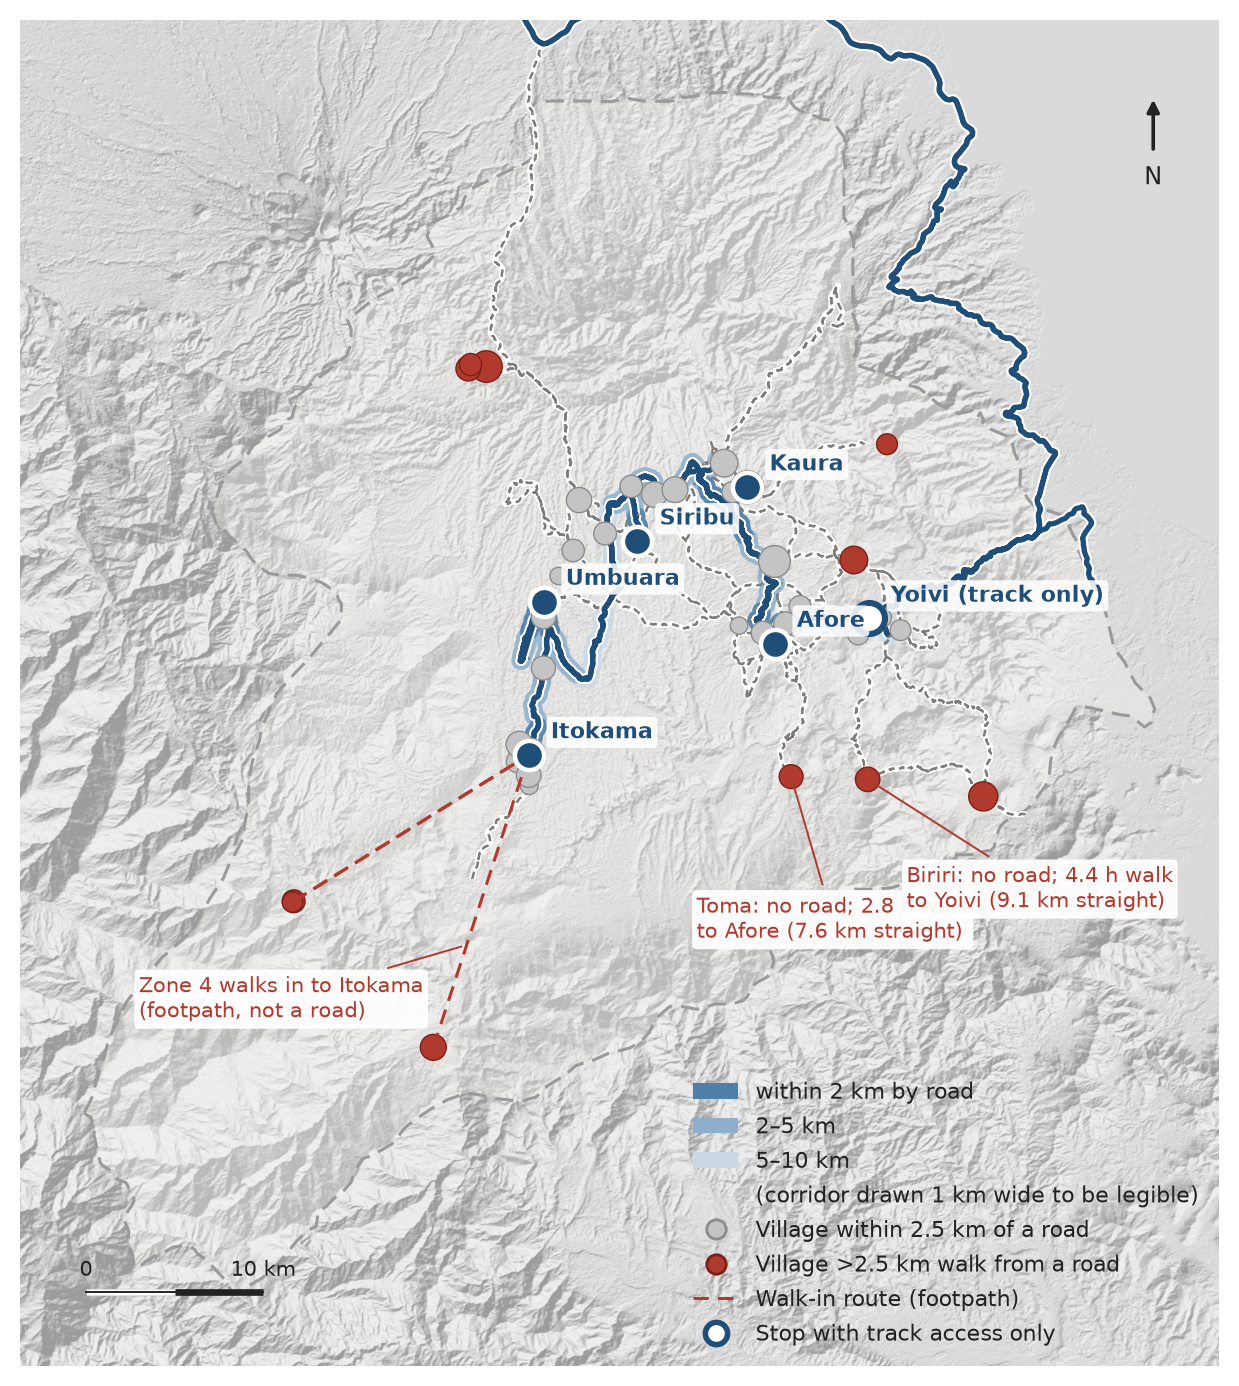
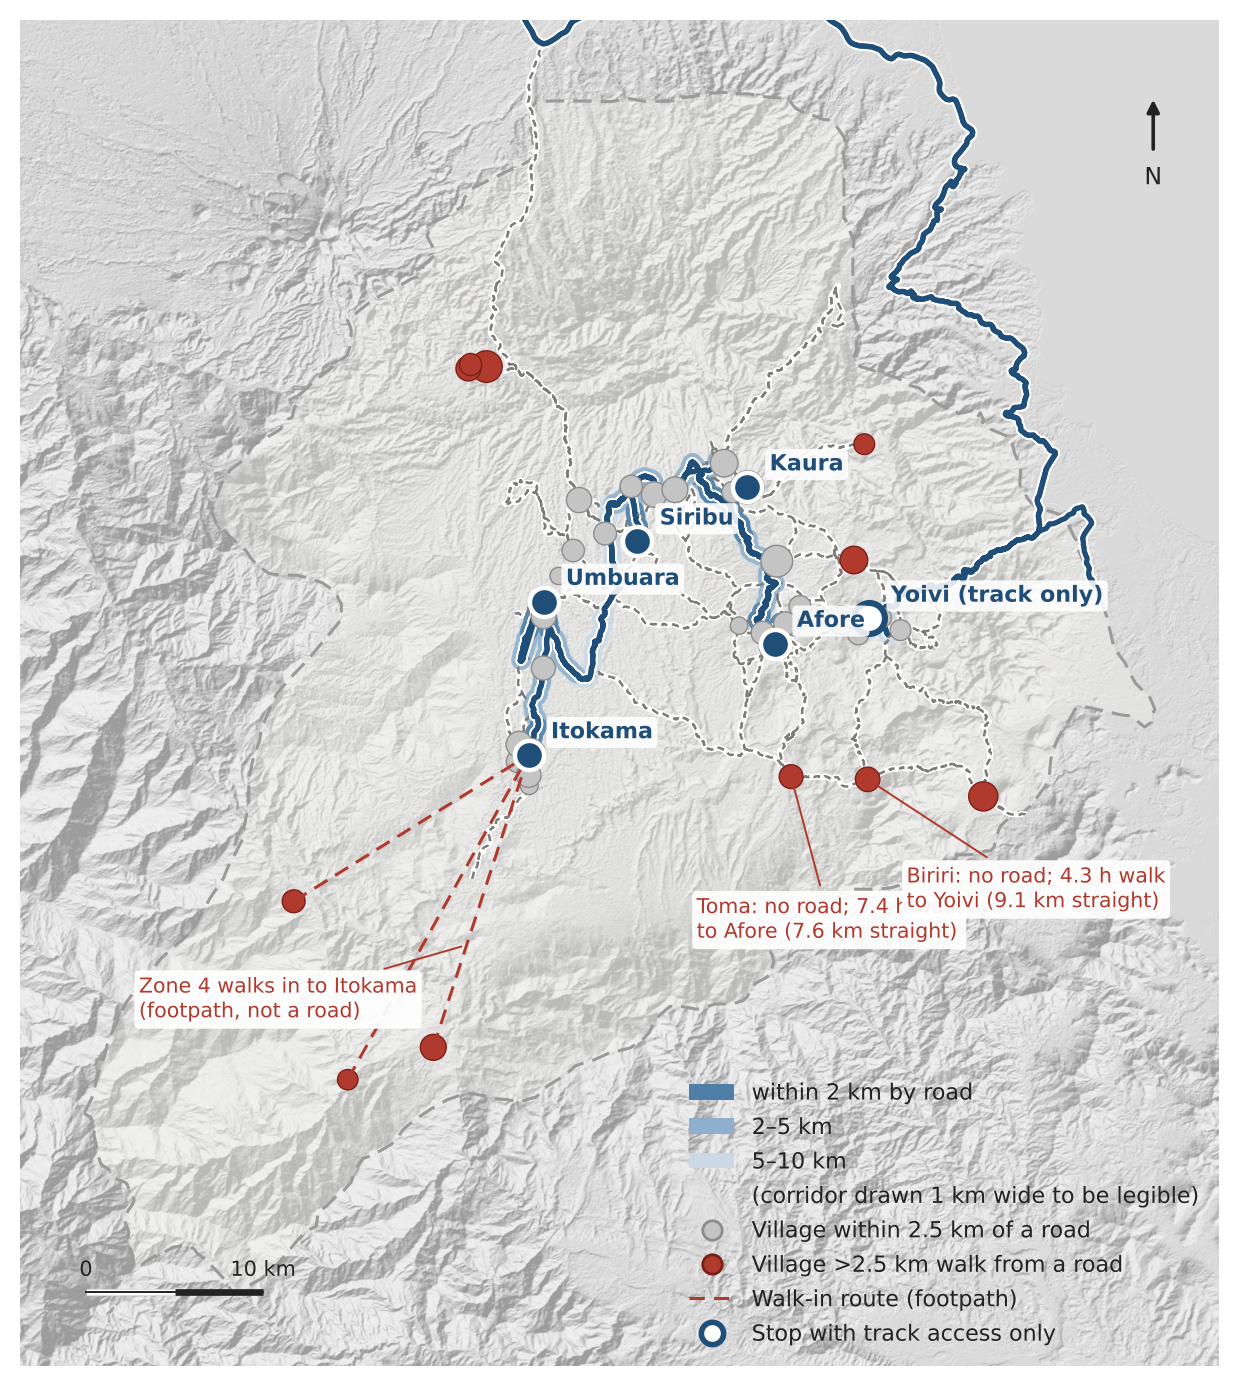
Give the access model the corrected village positions it never had
It read data/MCA_Village_Locations.csv raw, so placed_by_team.csv and
bad_positions.csv never reached it. Every other output in this repository
honoured the team's corrections; this one did not, and nothing said so.

Four villages move:

  Suari     10.55 km  (placed by the team)
  Niniuri    2.93 km  (placed by the team)
  Sigara     1.28 km  (place_aliases.csv)
  Kawowoki   0.13 km  (placed by the team)

Suari is the one that mattered. bad_positions.csv records the gazetteer
position as "This was WRONG" - it put Suari 73 m from Jaure - and the team
moved it 10.5 km. On this map the two villages sat on one point and Suari's
walking distances were really Jaure's. Corrected, its straight line to
Itokama goes from 15.7 to 20.98 km and the walk estimate from 5.44 to 7.57
hours. Will walked there on 2-4 Nov 2026.

Niniuri was effectively on top of Afore at 0.08 km; it is 3.71 km away.

What moves in the headline figures: almost nothing. 35 of 46 villages
road-served and 2,703 of 3,837 households (70.4%) are unchanged, and no
village changes access class. One number moves - households within 2 km by
road, 1,380 to 1,360 - and that is exactly Niniuri's 20, which is the
arithmetic agreeing with itself.

WORTH KNOWING, and not introduced by this: walk_hours_est is unstable.
Kawowoki moved 130 m and its estimate went from 1.57 hours to 5.40, because
the village snapped to a different node and the walkable graph routed it a
[…]

diff --git a/scripts/build_access.py b/scripts/build_access.py
@@ -117,6 +117,67 @@ def load_overrides():
     return {r["stop"]: r for _, r in df.iterrows()}
 
 
+def corrected_positions():
+    """Positions that supersede the gazetteer, best tier first.
+
+    The team's own placements outrank everything; then a position written into
+    place_aliases.csv with direct evidence for it. Both files already exist
+    and every other output in this repository honours them - this one did not.
+    """
+    best = {}
+    al = ROOT / "data" / "reference" / "place_aliases.csv"
+    if al.exists():
+        for r in pd.read_csv(al, comment="#").itertuples():
+            name = str(getattr(r, "resolved_to", "") or "").strip()
+            lon, lat = getattr(r, "lon", None), getattr(r, "lat", None)
+            if name and pd.notna(lon) and pd.notna(lat):
+                best[name.lower()] = (float(lon), float(lat), "place_aliases.csv")
+    pt = ROOT / "data" / "reference" / "placed_by_team.csv"
+    if pt.exists():
+        for r in pd.read_csv(pt, comment="#").itertuples():
+            name = str(r.place).strip()
+            if name:
+                best[name.lower()] = (float(r.lon), float(r.lat), "placed by the team")
+    return best
+
+
+def load_villages():
+    """The gazetteer, with every corrected position applied.
+
+    This read data/MCA_Village_Locations.csv raw, so placed_by_team.csv and
+    bad_positions.csv never reached the access model. Suari sat 73 m from
+    Jaure here - the position bad_positions.csv records as "This was WRONG" -
+    while every other output in the repository had it 10.5 km away where the
+    team put it. Two villages on one point, and Suari's walking distances were
+    really Jaure's.
+    """
+    v = pd.read_csv(ROOT / "data" / "MCA_Village_Locations.csv")
+    best = corrected_positions()
+    moved = []
+    for i, r in v.iterrows():
+        hit = best.get(str(r["vil_name"]).strip().lower())
+        if not hit:
+            continue
+        lon, lat, src = hit
+        d = haversine_km(float(r["lon"]), float(r["lat"]), lon, lat)
+        if d < 0.05:
+            continue
+        v.at[i, "lon"], v.at[i, "lat"] = lon, lat
+        moved.append((str(r["vil_name"]), d, src))
+    if moved:
+        print("village positions corrected before routing:")
+        for name, d, src in sorted(moved, key=lambda m: -m[1]):
+            print(f"  {name:14s} moved {d:6.2f} km   ({src})")
+    return v, moved
+
+
+def haversine_km(lon1, lat1, lon2, lat2):
+    from math import radians, sin, cos, asin, sqrt
+    lo1, la1, lo2, la2 = map(radians, (lon1, lat1, lon2, lat2))
+    h = sin((la2 - la1) / 2) ** 2 + cos(la1) * cos(la2) * sin((lo2 - lo1) / 2) ** 2
+    return 2 * 6371.0088 * asin(sqrt(h))
+
+
 def reconcile_stops(village_df):
     """Prefer the surveyed position of a stop over a rounded one in the brief."""
     out, notes = [], []
@@ -345,7 +406,7 @@ def main():
           f"{nbw} gap(s) bridged, {tbw/1000:.2f} km")
 
     # ---- stops -------------------------------------------------------------
-    v_for_stops = pd.read_csv(ROOT / "data" / "MCA_Village_Locations.csv")
+    v_for_stops, _moved = load_villages()
     stops_def, stop_notes = reconcile_stops(v_for_stops)
     print("\nmarket stop positions:")
     for n in stop_notes:
@@ -393,7 +454,7 @@ def main():
         dist_from_stop[s] = nx.single_source_dijkstra_path_length(G, k, weight="weight")
 
     # ---- villages ----------------------------------------------------------
-    v = pd.read_csv(ROOT / "data" / "MCA_Village_Locations.csv")
+    v, _moved = load_villages()
     vg = gpd.GeoDataFrame(v, geometry=[Point(x, y) for x, y in zip(v.lon, v.lat)],
                           crs=WGS84)
     vu = vg.to_crs(UTM)
